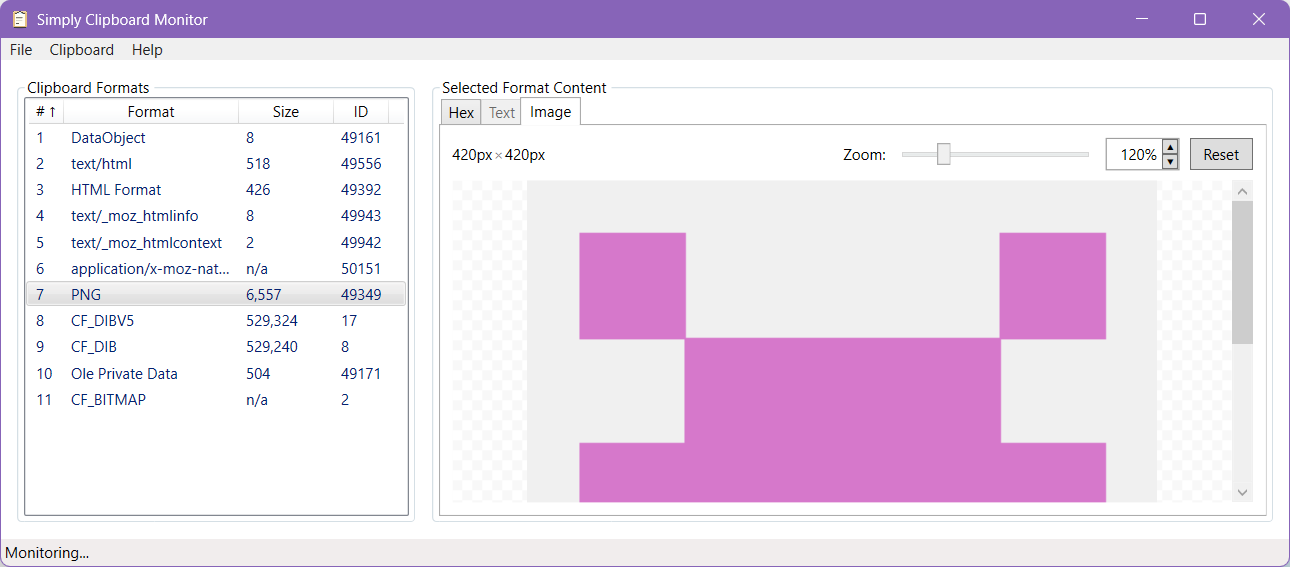
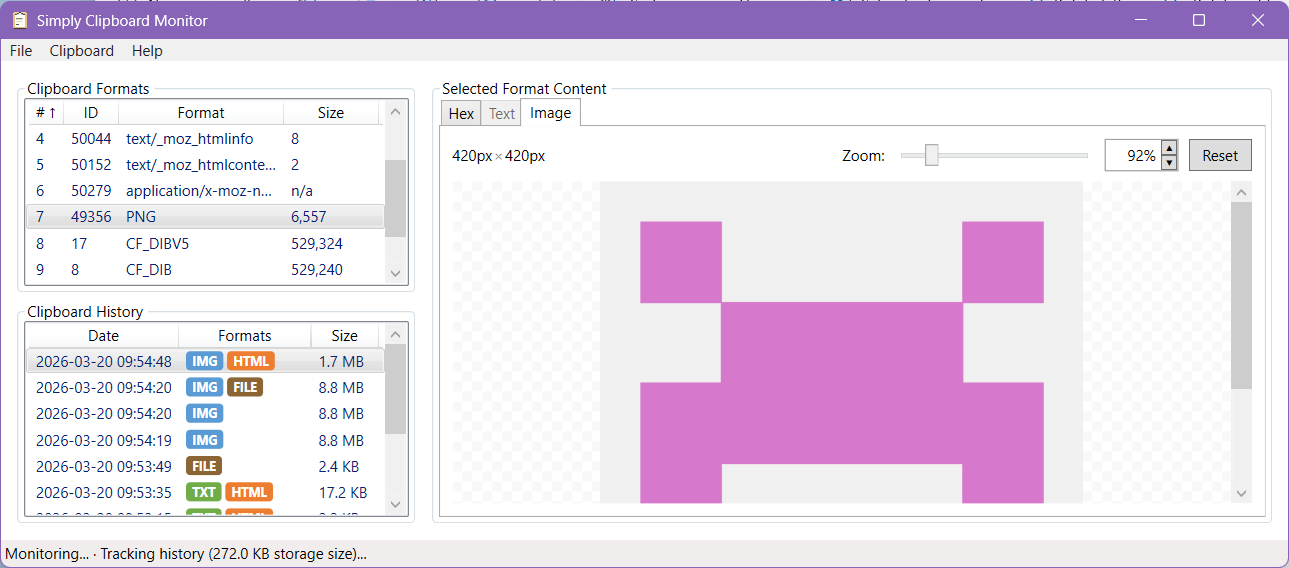
Updated README to provide information about Clipboard History Tracking feature.

diff --git a/README.md b/README.md
@@ -7,9 +7,11 @@ It shows:
 - Raw bytes as a hex dump (when the format is byte-addressable).
 - Decoded text preview (for text-like formats), with encoding detection and a manual encoding selector.
 - Image preview (for image-like formats).
+- A scrollable history of past clipboard changes, with per-session format previews.
 
-![Screenshot](.github/screenshots/demo1.png)
-![Screenshot](.github/screenshots/demo2.png)
+| Screenshot: Basic operation, HEX Preview | Screenshot: History Tracking, Image Preview |
+|:----------------------------------------:|:-------------------------------------------:|
+|![Screenshot of Basic operation, HEX Preview](.github/screenshots/demo1.png)|![Screenshot of History Tracking, Image Preview](.github/screenshots/demo2.png)|
 
 ## Download Binaries
 
@@ -28,6 +30,7 @@ The app is designed as a clipboard debugging and inspection utility for software
 - Inspect raw clipboard payloads via hex rows and offsets.
 - Quickly sanity-check text encoding behavior (`CF_TEXT`, `CF_OEMTEXT`, `CF_UNICODETEXT`).
 - Preview clipboard images and verify basic rendering.
+- Browse and replay clipboard history — inspect any past clipboard state in full detail.
 - Save a clipboard snapshot to a `.clipdb` file for later analysis or sharing.
 - Export an individual clipboard format as text, image, or raw binary file.
 
@@ -83,13 +86,59 @@ Clipboard change monitoring is **enabled by default**. When active, the format l
 
 ### Turning monitoring ON and OFF
 
-Use **Clipboard → Monitor Changes** in the menu bar to toggle monitoring on or off. 
+Use **Clipboard → Monitor Changes** in the menu bar to toggle monitoring on or off.
 
 The menu item displays a checkmark and the status bar at the bottom shows "Monitoring..." while monitoring is active.
 
+When monitoring is turned off, a full snapshot of all current clipboard format data is taken automatically so that format previews remain functional even when the clipboard contents have since changed.
+
 ### Persisted preference
 
-The monitoring state is saved automatically when changed and restored on the next launch. The preference is stored in `%LOCALAPPDATA%\Simply.ClipboardMonitor\preferences.json`
+The monitoring state is saved automatically when changed and restored on the next launch. The preference is stored in `%LOCALAPPDATA%\Simply.ClipboardMonitor\preferences.json`.
+
+## Clipboard History
+
+Use **Clipboard → Track History** to enable history tracking. A history panel appears below the format list, showing a timestamped record of every clipboard change captured while **Track History** was active.
+
+### History list
+
+Each row in the history list shows:
+- **Date** - timestamp of the clipboard change.
+- **Formats** — colored badges identifying the data categories present in that clipboard snapshot. The tooltip shows a list of every format name and its ID in the snapshot.
+
+  | Pill | Category | Formats matched |
+  |------|----------|-----------------|
+  | **IMG** | Image | `CF_DIB`, `CF_DIBV5`, `CF_BITMAP`, PNG, JPEG, GIF, etc. |
+  | **TXT** | Text | `CF_TEXT`, `CF_UNICODETEXT`, `CF_OEMTEXT`, and text-like format names |
+  | **HTML** | HTML | `HTML Format` and HTML-like format names |
+  | **RTF** | Rich Text | `Rich Text Format` and RTF-like format names |
+  | **FILE** | File drop | `CF_HDROP` |
+  | **OTHER** | Other | Shown only when none of the above apply |
+- **Size** — sum of the original (uncompressed) byte lengths of all formats in the snapshot.
+
+Clicking a row retrieves that session's format snapshots for preview, exactly as they were at the time of capture.
+
+### History database
+
+History is persisted to `%LOCALAPPDATA%\Simply.ClipboardMonitor\history.db` (an SQLite database). Blob data is stored compressed (ZStandard at maximum level) and content-addressed by SHA-256 hash, so identical payloads shared across different formats and different sessions are stored only once.
+
+The database schema has three tables:
+- `clipboard_formats` — the set of all format names and IDs ever seen.
+- `clipboard_contents` — deduplicated compressed blobs, keyed by SHA-256 hash.
+- `sessions` — one row per clipboard change, with timestamp, formats summary text, and total uncompressed size.
+- `session_items` — joins sessions to their per-format blobs.
+
+### History limits
+
+The history database grows over time. Use **File → Settings** to configure:
+- **Max entries** — oldest sessions are deleted when the count exceeds this value.
+- **Max database size (MB)** — oldest sessions are deleted until the total stored blob size falls below this limit. At least one session is always retained.
+
+Limits are enforced automatically each time a new session is written, as well as when the user changes the limits in the Settings dialog.
+
+The Settings dialog also shows the current database file size and provides a **Clear History** button.
+
+When history tracking is active, the status bar shows "Tracking history (X.X MB storage size)...".
 
 ## Preview Behavior
 
@@ -148,23 +197,25 @@ A **Save As** dialog opens with the file name pre-set to `clipboard-{format_name
 - WPF
 - .NET 8 (`net8.0-windows`)
 - Win32 APIs via P/Invoke (`user32.dll`, `kernel32.dll`, `gdi32.dll`)
-- SQLite via `Microsoft.Data.Sqlite` (clipboard database persistence)
+- SQLite via `Microsoft.Data.Sqlite` (clipboard database persistence and history)
+- ZStandard via `ZstdSharp.Port` (history blob compression)
 
 ## Project Structure
 
-- `Simply.ClipboardMonitor.sln` - solution
-- `Simply.ClipboardMonitor/Simply.ClipboardMonitor.csproj` - app project
-- `Simply.ClipboardMonitor/App.xaml` / `App.xaml.cs` - WPF application entry point
-- `Simply.ClipboardMonitor/Views/MainWindow.xaml` - main window UI layout
-- `Simply.ClipboardMonitor/Views/MainWindow.xaml.cs` - main window logic (clipboard listener, parsing, previews, encoding detection, export, zoom, pan, sort, preferences)
-- `Simply.ClipboardMonitor/Views/AboutDialog.xaml` - About dialog UI layout
-- `Simply.ClipboardMonitor/Views/AboutDialog.xaml.cs` - About dialog logic
-- `Simply.ClipboardMonitor/Common/ClipboardFormatItem.cs` - format list row model
-- `Simply.ClipboardMonitor/Common/HexRowCollection.cs` - virtualised hex-dump row collection
-- `Simply.ClipboardMonitor/Common/ClipboardDatabase.cs` - .clipdb save/load logic (SQLite)
-- `Simply.ClipboardMonitor/Common/NativeMethods.cs` - Win32 P/Invoke declarations
-- `Simply.ClipboardMonitor/Common/ShellHelper.cs` - helper for opening URLs in the default browser
-- `Simply.ClipboardMonitor/Models/UserPreferences.cs` - preferences and column preference model
+- `Simply.ClipboardMonitor.sln` — solution
+- `Simply.ClipboardMonitor/Simply.ClipboardMonitor.csproj` — app project
+- `Simply.ClipboardMonitor/App.xaml` / `App.xaml.cs` — WPF application entry point
+- `Simply.ClipboardMonitor/Views/MainWindow.xaml` — main window UI layout
+- `Simply.ClipboardMonitor/Views/MainWindow.xaml.cs` — main window logic (clipboard listener, parsing, previews, encoding detection, export, zoom, pan, sort, history, preferences)
+- `Simply.ClipboardMonitor/Views/AboutDialog.xaml` / `AboutDialog.xaml.cs` — About dialog
+- `Simply.ClipboardMonitor/Views/SettingsDialog.xaml` / `SettingsDialog.xaml.cs` — Settings dialog (history limits, database size display, clear history)
+- `Simply.ClipboardMonitor/Common/ClipboardFormatItem.cs` — format list row model
+- `Simply.ClipboardMonitor/Common/HexRowCollection.cs` — virtualised hex-dump row collection
+- `Simply.ClipboardMonitor/Common/ClipboardDatabase.cs` — `.clipdb` save/load logic (SQLite)
+- `Simply.ClipboardMonitor/Common/ClipboardHistory.cs` — history database logic (SQLite, ZStandard compression, SHA-256 deduplication, session trimming)
+- `Simply.ClipboardMonitor/Common/NativeMethods.cs` — Win32 P/Invoke declarations
+- `Simply.ClipboardMonitor/Common/ShellHelper.cs` — helper for opening URLs in the default browser
+- `Simply.ClipboardMonitor/Models/UserPreferences.cs` — preferences and column preference model
 
 ## Build and Run
 
